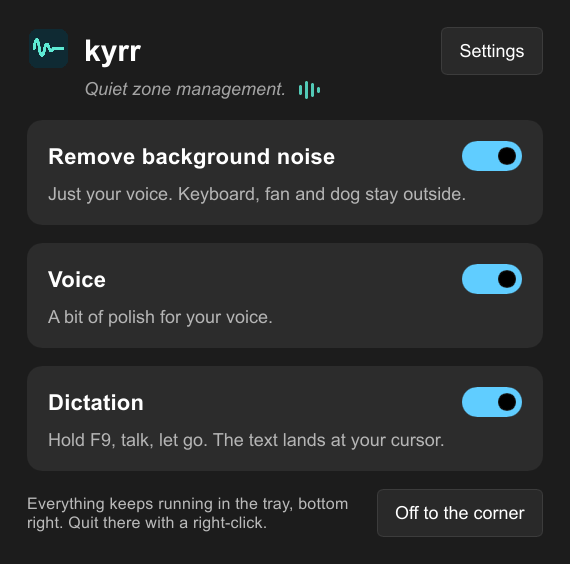
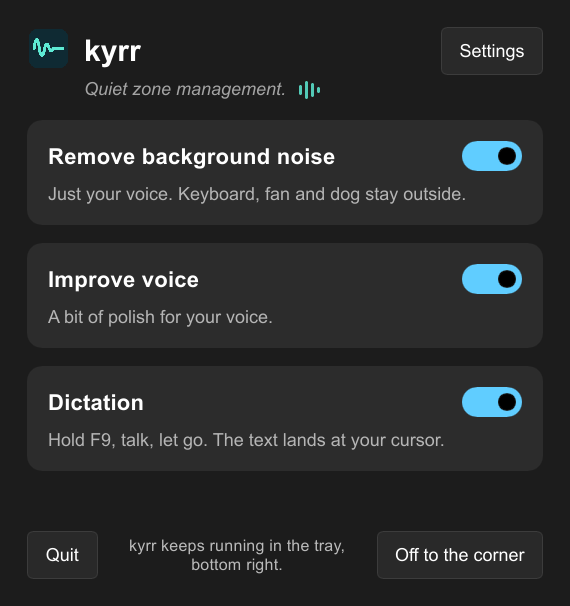
Review fixes: site and README current for 0.5.3
The landing page shows the current screenshots, 'Improve voice' and the
automatic volume on by default; the Linux tab offers the AppImage download
(the Flatpak and AUR tabs return once those exist). AVX2 for the Linux
noise filter, the Linux side of Check and SECURITY, and libxkbcommon-x11
for building are documented.

Claude-Session: https://claude.ai/code/session_01YFkpf8cGDNc7EwCDA9hf7R

diff --git a/site/de/index.html b/site/de/index.html
@@ -36,7 +36,7 @@
         <p class="small">Für Windows 10/11 und Linux. Kostenlos und Open Source.</p>
         <p class="kyrr-note"><i>kyrr</i> (Altnordisch): still, ruhig, in Ruhe.</p>
       </div>
-      <img src="../main.png" width="570" height="564" alt="Das kyrr-Fenster: Störgeräusche entfernen, Stimme und Diktat, jeweils mit einem Schalter (Oberfläche auf Englisch)">
+      <img src="../main.png" width="570" height="606" alt="Das kyrr-Fenster: Störgeräusche entfernen, Stimme verbessern und Diktat, jeweils mit einem Schalter (Oberfläche auf Englisch)">
     </div>
 
     <section id="features" aria-labelledby="h-features">
@@ -47,12 +47,12 @@
           <p>Ein neuronaler Filter arbeitet in Echtzeit direkt am Mikrofon, für jede App: Teams, Zoom, Discord, OBS, den Browser. Ein großes Modell für das sauberste Ergebnis, ein kleines für ältere Laptops.</p>
         </div>
         <div class="card">
-          <h3>Stimme</h3>
+          <h3>Stimme verbessern</h3>
           <p>Ein bisschen Politur, wenn die Störgeräusche weg sind: ein Klang (von neutral bis hell, oder dein eigener), ein Kompressor, weichere S-Laute, Popschutz und ein Schnitt gegen tiefes Dröhnen.</p>
         </div>
         <div class="card">
           <h3>Automatische Lautstärke</h3>
-          <p>Deine Stimme kommt immer gleich laut an, egal wie laut das Mikrofon eingestellt ist. Aus, bis du sie einschaltest.</p>
+          <p>Deine Stimme kommt immer gleich laut an, egal wie laut das Mikrofon eingestellt ist. Von Anfang an eingeschaltet.</p>
         </div>
         <div class="card">
           <h3>Diktat</h3>
@@ -60,7 +60,7 @@
         </div>
       </div>
       <div class="split">
-        <img src="../settings.png" width="1140" height="1901" loading="lazy" alt="Die Einstellungen von kyrr, erweiterte Ansicht, in zwei Spalten: Filterstärke und Modell, Klang mit Reglern, Kompressor, S-Laute, Tiefenschnitt, Popschutz, automatische Lautstärke, Sprache, Autostart, Updates, Mikrofon, Diktiertaste, Pegelcheck und Info (Oberfläche auf Englisch)">
+        <img src="../settings.png" width="1140" height="1727" loading="lazy" alt="Die Einstellungen von kyrr, erweiterte Ansicht, in zwei Spalten: Filterstärke und Modell, Klang mit Reglern, Kompressor, S-Laute, Tiefenschnitt, Popschutz, automatische Lautstärke, Sprache, Autostart, Updates, Mikrofon, Diktiertaste, Pegelcheck und Info (Oberfläche auf Englisch)">
         <div>
           <h3>Regler, falls du Regler magst</h3>
           <p>Die Voreinstellungen passen. Wenn du mehr willst, haben die Einstellungen die Regler und einen Check, ob alles wirkt: ein Pegel live von dem, was das Mikrofon hört und was die Apps bekommen, ein Zehn-Sekunden-Test zum Abspielen vor und nach kyrr und Mithören über Kopfhörer.</p>
@@ -73,7 +73,7 @@
 <section class="privacy" id="privacy" aria-labelledby="h-privacy">
   <div class="wrap">
     <h2 id="h-privacy">Privat, im Sinne von: bleibt hier</h2>
-    <p>Deine Stimme und dein diktierter Text verlassen deinen Computer nie: keine Cloud, kein Konto, keine Telemetrie. Nach dem einmaligen Download des Sprachmodells läuft kyrr offline; sonst geht es nur einmal täglich online, um nach einer neuen Version zu fragen, und das lässt sich abschalten.</p>
+    <p>Deine Stimme und dein diktierter Text verlassen deinen Computer nie: keine Cloud, kein Konto, keine Telemetrie. Nach dem einmaligen Download des Sprachmodells läuft kyrr offline; von sich aus geht es nur einmal täglich online, um nach einer neuen Version zu fragen, und das lässt sich abschalten.</p>
     <p><a href="https://github.com/heast13/kyrr#privacy">Genau nachlesen, was wohin verbindet (Englisch)</a></p>
   </div>
 </section>
@@ -91,26 +91,15 @@
         <p class="small">Unter Windows on ARM (Snapdragon und andere ARM-Prozessoren) kann kyrr nur diktieren: Der Filter ist für Intel und AMD gebaut.</p>
       </div>
 
-      <div class="panel" id="flatpak" data-label="Flatpak">
-        <h3>Flatpak</h3>
-        <p>kyrr ist auf dem Weg zu Flathub. Sobald es dort ist, findest du es in GNOME Software und KDE Discover. Bis dahin nimm das AppImage oder, unter Arch, das AUR-Paket.</p>
-      </div>
 
-      <div class="panel" id="arch" data-label="Arch / AUR">
-        <h3>Arch / AUR</h3>
-        <p>Für Arch, Omarchy, Manjaro, EndeavourOS.</p>
-        <pre tabindex="0"><code>yay -S kyrr-bin</code></pre>
-        <p>oder, wenn du paru benutzt:</p>
-        <pre tabindex="0"><code>paru -S kyrr-bin</code></pre>
-        <p>Paketseite: <a href="https://aur.archlinux.org/packages/kyrr-bin">aur.archlinux.org/packages/kyrr-bin</a></p>
-      </div>
-
-      <div class="panel" id="appimage" data-label="AppImage">
-        <h3>AppImage</h3>
-        <p>Lade <code>kyrr-&lt;version&gt;-x86_64.AppImage</code> vom <a href="https://github.com/heast13/kyrr/releases/latest">neuesten Release</a>, mach die Datei ausführbar und starte sie:</p>
-        <pre tabindex="0"><code>chmod +x kyrr-*-x86_64.AppImage
-./kyrr-*-x86_64.AppImage</code></pre>
-        <p>Braucht glibc 2.39 oder neuer: Ubuntu 24.04+, Fedora 40+, Debian 13, Arch. Vergleiche die Datei mit ihrer Prüfsumme auf der Release-Seite, wenn du sichergehen willst.</p>
+      <div class="panel" id="appimage" data-label="Linux">
+        <h3>Linux</h3>
+        <p>Eine Datei für jede Distribution, ein AppImage. 64 Bit, Intel oder AMD, mit glibc 2.39 oder neuer: Ubuntu 24.04+, Fedora 40+, Debian 13, Arch. Der Filter für Störgeräusche braucht AVX2 (die meisten Prozessoren ab 2015).</p>
+        <p><a class="btn primary" href="https://github.com/heast13/kyrr/releases/latest/download/kyrr-x86_64.AppImage">kyrr-x86_64.AppImage herunterladen</a></p>
+        <p>Mach die Datei ausführbar und starte sie:</p>
+        <pre tabindex="0"><code>chmod +x kyrr-x86_64.AppImage
+./kyrr-x86_64.AppImage</code></pre>
+        <p>Oder im Dateimanager: Rechtsklick, Eigenschaften, als Programm ausführen erlauben, dann Doppelklick. Beim ersten Start trägt sich kyrr in dein App-Menü ein. Wenn du sichergehen willst, vergleiche ihre SHA256 mit der auf der <a href="https://github.com/heast13/kyrr/releases/latest">Release-Seite</a>.</p>
       </div>
     </div>
 
@@ -119,10 +108,8 @@
       <ul>
         <li><strong>PipeWire ist Pflicht.</strong> Es ist Standard in aktuellem Ubuntu, Fedora, Arch und Debian 12 und neuer.</li>
         <li><strong>Das Mikrofon „kyrr“.</strong> kyrr legt ein virtuelles Mikrofon namens „kyrr“ an und macht es zu deinem Standard. Apps, die das Standardmikrofon nutzen, bekommen sofort die saubere Stimme. Apps mit fest eingestelltem Mikrofon musst du auf „kyrr“ umstellen.</li>
-        <li><strong>Push-to-talk</strong> läuft über den Dialog für globale Tastenkürzel deines Desktops (GNOME 48+, KDE Plasma). Er erscheint beim ersten Mal; bestätige dort die Taste. Unter Hyprland kommt diese Zeile in die <code>hyprland.conf</code>:
-          <pre tabindex="0"><code>bind = , F9, global, io.github.heast13.kyrr:dictate</code></pre>
-          Unter X11 geht die Taste einfach so. Überall sonst legst du <code>kyrr --dictate</code> in den Tastatur-Einstellungen deines Desktops auf eine Taste; den genauen Befehl zeigt kyrr in seinen Einstellungen.</li>
-        <li><strong>Tippen.</strong> Diktierter Text wird ins fokussierte Fenster getippt. Beim ersten Mal fragen GNOME oder KDE, ob kyrr das darf. Sag Ja, sonst hat das Diktat nichts zum Tippen.</li>
+        <li><strong>Die Diktiertaste</strong> läuft über den Dialog für globale Tastenkürzel deines Desktops (GNOME 48+, KDE Plasma). kyrr führt dich beim ersten Mal durch; F9 steht schon drin. Unter Hyprland (etwa Omarchy) zeigt kyrr die Zeilen für deine Tastenbelegung. Unter X11 geht die Taste einfach so. Überall sonst legst du den Befehl, den kyrr in seinen Einstellungen zeigt, in den Tastatur-Einstellungen deines Desktops auf eine Taste.</li>
+        <li><strong>Tippen.</strong> Diktierter Text wird ins fokussierte Fenster getippt. Beim ersten Mal fragen GNOME oder KDE, ob kyrr das darf. Sag Ja; sonst kann kyrr den Text nur in die Zwischenablage legen.</li>
       </ul>
     </aside>
   </section>

diff --git a/site/index.html b/site/index.html
@@ -48,7 +48,7 @@
         <p class="small">For Windows 10/11 and Linux. Free and open source.</p>
         <p class="kyrr-note"><i>kyrr</i> (Old Norse): still, quiet, at rest.</p>
       </div>
-      <img src="main.png" width="570" height="564" alt="kyrr's window: noise filter, voice and dictation, each with one switch">
+      <img src="main.png" width="570" height="606" alt="kyrr's window: noise filter, improve voice and dictation, each with one switch">
     </div>
 
     <section id="features" aria-labelledby="h-features">
@@ -59,12 +59,12 @@
           <p>A neural filter works on your microphone in real time, for every app: Teams, Zoom, Discord, OBS, the browser. A large model for the cleanest result, a small one for older laptops.</p>
         </div>
         <div class="card">
-          <h3>Voice</h3>
+          <h3>Improve voice</h3>
           <p>A bit of polish once the noise is gone: a sound (from neutral to bright, or your own), a compressor, softer S sounds, pop protection and a cut for low rumble.</p>
         </div>
         <div class="card">
           <h3>Automatic volume</h3>
-          <p>Your voice arrives at the same level however loud the microphone is set. Off until you switch it on.</p>
+          <p>Your voice arrives at the same level however loud the microphone is set. On from the start.</p>
         </div>
         <div class="card">
           <h3>Dictation</h3>
@@ -72,7 +72,7 @@
         </div>
       </div>
       <div class="split">
-        <img src="settings.png" width="1140" height="1901" loading="lazy" alt="kyrr's settings, advanced view, in two columns: filter strength and model, voice sound with its sliders, compressor, S sounds, low cut, pop protection, automatic volume, language, autostart, updates, microphone, dictation key, level check and about">
+        <img src="settings.png" width="1140" height="1727" loading="lazy" alt="kyrr's settings, advanced view, in two columns: filter strength and model, voice sound with its sliders, compressor, S sounds, low cut, pop protection, automatic volume, language, autostart, updates, microphone, dictation key, level check and about">
         <div>
           <h3>Knobs, if you like knobs</h3>
           <p>The defaults are fine. If you want more, Settings has the sliders, and a check to see that it all works: a live level of what the microphone hears and what apps get, a ten-second test you can play before and after kyrr, and listening to yourself on headphones.</p>
@@ -85,7 +85,7 @@
 <section class="privacy" id="privacy" aria-labelledby="h-privacy">
   <div class="wrap">
     <h2 id="h-privacy">Private, as in: stays here</h2>
-    <p>Your voice and your dictated text never leave your computer: no cloud, no account, no telemetry. After the one-time download of the speech model kyrr works offline; the only other thing it does online is a daily check for a new version, which you can switch off.</p>
+    <p>Your voice and your dictated text never leave your computer: no cloud, no account, no telemetry. After the one-time download of the speech model kyrr works offline; the only thing it does online on its own is a daily check for a new version, which you can switch off.</p>
     <p><a href="https://github.com/heast13/kyrr#privacy">Read exactly what connects where</a></p>
   </div>
 </section>
@@ -103,26 +103,15 @@
         <p class="small">On Windows on ARM (Snapdragon and other ARM processors) kyrr only dictates: its noise filter is built for Intel and AMD.</p>
       </div>
 
-      <div class="panel" id="flatpak" data-label="Flatpak">
-        <h3>Flatpak</h3>
-        <p>kyrr is on its way to Flathub. Once it is there, you will find it in GNOME Software and KDE Discover. Until then, take the AppImage or, on Arch, the AUR package.</p>
-      </div>
 
-      <div class="panel" id="arch" data-label="Arch / AUR">
-        <h3>Arch / AUR</h3>
-        <p>For Arch, Omarchy, Manjaro, EndeavourOS.</p>
-        <pre tabindex="0"><code>yay -S kyrr-bin</code></pre>
-        <p>or, if you use paru:</p>
-        <pre tabindex="0"><code>paru -S kyrr-bin</code></pre>
-        <p>Package page: <a href="https://aur.archlinux.org/packages/kyrr-bin">aur.archlinux.org/packages/kyrr-bin</a></p>
-      </div>
-
-      <div class="panel" id="appimage" data-label="AppImage">
-        <h3>AppImage</h3>
-        <p>Download <code>kyrr-&lt;version&gt;-x86_64.AppImage</code> from the <a href="https://github.com/heast13/kyrr/releases/latest">latest release</a>, make it executable and run it:</p>
-        <pre tabindex="0"><code>chmod +x kyrr-*-x86_64.AppImage
-./kyrr-*-x86_64.AppImage</code></pre>
-        <p>Needs glibc 2.39 or newer: Ubuntu 24.04+, Fedora 40+, Debian 13, Arch. Compare the file with its checksum on the release page if you like to be sure.</p>
+      <div class="panel" id="appimage" data-label="Linux">
+        <h3>Linux</h3>
+        <p>One file for every distribution, an AppImage. 64-bit Intel or AMD with glibc 2.39 or newer: Ubuntu 24.04+, Fedora 40+, Debian 13, Arch. The noise filter needs AVX2 (most processors from 2015 on).</p>
+        <p><a class="btn primary" href="https://github.com/heast13/kyrr/releases/latest/download/kyrr-x86_64.AppImage">Download kyrr-x86_64.AppImage</a></p>
+        <p>Make it executable and start it:</p>
+        <pre tabindex="0"><code>chmod +x kyrr-x86_64.AppImage
+./kyrr-x86_64.AppImage</code></pre>
+        <p>Or in your file manager: right click, Properties, allow executing it as a program, then double click. On its first start kyrr adds itself to your app menu. To be sure, compare its SHA256 with the one on the <a href="https://github.com/heast13/kyrr/releases/latest">release page</a>.</p>
       </div>
     </div>
 
@@ -131,10 +120,8 @@
       <ul>
         <li><strong>PipeWire is required.</strong> It is the default on current Ubuntu, Fedora, Arch and Debian 12 and newer.</li>
         <li><strong>The “kyrr” microphone.</strong> kyrr adds a virtual microphone called “kyrr” and makes it your default. Apps that use the default microphone get the clean voice right away. Apps set to a specific microphone need to be switched to “kyrr”.</li>
-        <li><strong>Push-to-talk</strong> goes through your desktop's global shortcut dialog (GNOME 48+, KDE Plasma). It shows up the first time; confirm the key there. On Hyprland, add this line to <code>hyprland.conf</code>:
-          <pre tabindex="0"><code>bind = , F9, global, io.github.heast13.kyrr:dictate</code></pre>
-          On X11 the key just works. Anywhere else, put <code>kyrr --dictate</code> on a key in your desktop's keyboard settings; kyrr shows the exact command in its settings.</li>
-        <li><strong>Typing.</strong> Dictated text is typed into the focused window. The first time, GNOME or KDE asks whether kyrr may do that. Say yes, or dictation has nothing to type with.</li>
+        <li><strong>The dictation key</strong> goes through your desktop's global shortcut dialog (GNOME 48+, KDE Plasma). kyrr walks you through it the first time; F9 is already filled in. On Hyprland (Omarchy, say) kyrr shows the lines to add to your key bindings. On X11 the key just works. Anywhere else, put the command kyrr shows in its settings on a key in your desktop's keyboard settings.</li>
+        <li><strong>Typing.</strong> Dictated text is typed into the focused window. The first time, GNOME or KDE asks whether kyrr may do that. Say yes; otherwise kyrr can only put the text on the clipboard.</li>
       </ul>
     </aside>
   </section>

diff --git a/site/app.js b/site/app.js
@@ -52,8 +52,7 @@
   }
   wrap.insertBefore(list, wrap.firstChild);
 
-  // Start on the visitor's system: Windows, else the AppImage (it runs on
-  // every distribution; switch to Flatpak once kyrr is on Flathub).
+  // Start on the visitor's system: Windows, else Linux (the AppImage).
   var ua = navigator.userAgent || "";
   var want = /Windows/.test(ua) ? "windows" : "appimage";
   var start = panels.findIndex(function (p) { return p.id === want; });

diff --git a/scripts/release-notes.py b/scripts/release-notes.py
@@ -86,7 +86,7 @@ def main() -> None:
         f"Windows 10 22H2 or Windows 11, 64-bit. {signing} Compare the installer with "
         f"`kyrr-setup-{version}.exe.sha256` first. See the README for what the installer changes.\n\n"
         f"Linux (64-bit Intel or AMD, glibc 2.39 or newer: Ubuntu 24.04, Fedora 40, Debian 13, Arch; "
-        f"needs PipeWire): "
+        f"needs PipeWire; the noise filter needs AVX2): "
         f"make `kyrr-{version}-x86_64.AppImage` executable and run it. "
         f"`kyrr-{version}-linux-x86_64.tar.gz` holds the same files as an install tree for packagers. "
         f"Compare them with their `.sha256` files.\n"

diff --git a/README.md b/README.md
@@ -91,11 +91,13 @@ executing file as program" (the wording differs a little per desktop), then
 a double click. On its first start kyrr adds itself to your app menu.
 
 64-bit Intel or AMD with glibc 2.39 or newer (Ubuntu 24.04, Fedora 40,
-Debian 13, Arch or newer) and PipeWire, which these use anyway. No
-administrator rights needed. On GNOME and KDE your desktop asks once for the
+Debian 13, Arch or newer) and PipeWire, which these use anyway. The noise
+filter needs a processor with AVX2 (most from 2015 on); dictation works
+without. No administrator rights needed. On GNOME and KDE your desktop asks once for the
 dictation key and once whether kyrr may type; kyrr walks you through both.
 On Hyprland (Omarchy, say) kyrr shows the lines to add to your key bindings;
-without a tray icon (GNOME) the window's X minimizes kyrr, "Quit" ends it.
+without a tray icon the window's X minimizes kyrr where the desktop can bring
+it back (GNOME, say) and quits it on tiling ones; "Quit" always ends it.
 Updates are not installed by themselves: kyrr says when there is a new
 version, and you download the new AppImage.
 
@@ -147,17 +149,20 @@ one of the two.
 
 **Your microphone.** kyrr checks every few seconds which microphone the
 system uses. When it changes, the filter moves along: Windows asks for
-permission once and sound pauses for a moment (on Linux it just moves). If you decline, a button on
-the main page offers it. A microphone you pick by hand stays until the
+permission once and sound pauses for a moment; on Linux it simply moves. If
+that does not happen (you declined, say), a button on the main page offers it. A microphone you pick by hand stays until the
 system's default changes.
 
-**Check.** The filter shares a small block of memory with the app
+**Check.** On Windows the filter shares a small block of memory with the app
 (`Global\kyrr-monitor-3`): the level before and after kyrr, what the
 automatic volume adds, and on request one ten-second take, unprocessed and
 processed. The audio service writes it; users signed in at this computer can
 read it and ask for a take, which only records while an app already uses the
 microphone. The app plays the take, keeps it only in memory and clears it
 from the shared block.
+
+On Linux the filter runs inside the app, which reads the levels and the
+take directly.
 
 **Dictation.** kyrr records while the key is held and transcribes locally
 with [sherpa-onnx](https://github.com/k2-fsa/sherpa-onnx) (its build without
@@ -228,7 +233,8 @@ text-to-speech; the default ones bundle espeak-ng (GPL-3.0).
 that contains it, or a filter DLL that needs the Visual C++ runtime.
 
 On Linux (the packages libpipewire-0.3-dev, libclang-dev, libasound2-dev,
-libfontconfig1-dev, libxkbcommon-dev and libssl-dev, or their names elsewhere):
+libfontconfig1-dev, libxkbcommon-dev, libxkbcommon-x11-0 and libssl-dev, or
+their names elsewhere):
 
 ```sh
 python3 scripts/fetch-assets.py --linux

diff --git a/CHANGELOG.md b/CHANGELOG.md
@@ -17,9 +17,9 @@
 - On Linux without a tray icon, the window's X minimizes kyrr on desktops
   that can restore it (GNOME, KDE, Cinnamon, Xfce and the like) and quits it
   on tiling ones. Linux is only offered updates that come with an AppImage.
-- Windows: the wave next to the status line steps on a timer instead of
-  every frame and needs far less processor time. A settings file that does
-  not read is kept as config.json.bak instead of being overwritten.
+- The wave next to the status line steps on a timer instead of every frame
+  and needs far less processor time. A settings file that does not read is
+  kept as config.json.bak instead of being overwritten.
 
 ## 0.5.2 (2026-10-14)
 

diff --git a/SECURITY.md b/SECURITY.md
@@ -2,6 +2,8 @@
 
 kyrr installs an audio filter that runs inside the Windows audio engine and,
 like Equalizer APO, switches on `DisableProtectedAudioDG` so Windows loads it.
+On Linux it needs no extra rights: it runs as your user and adds a PipeWire
+microphone.
 Please report anything that could let other programs or users abuse that
 privately through GitHub's
 [security advisories](https://github.com/heast13/kyrr/security/advisories/new),
